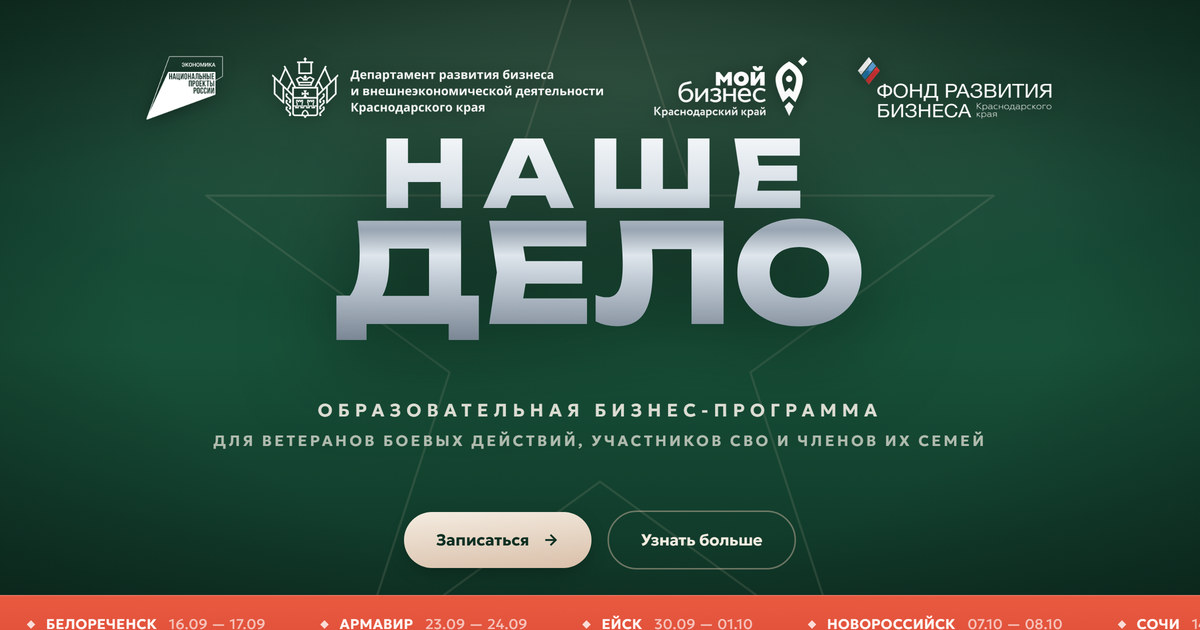
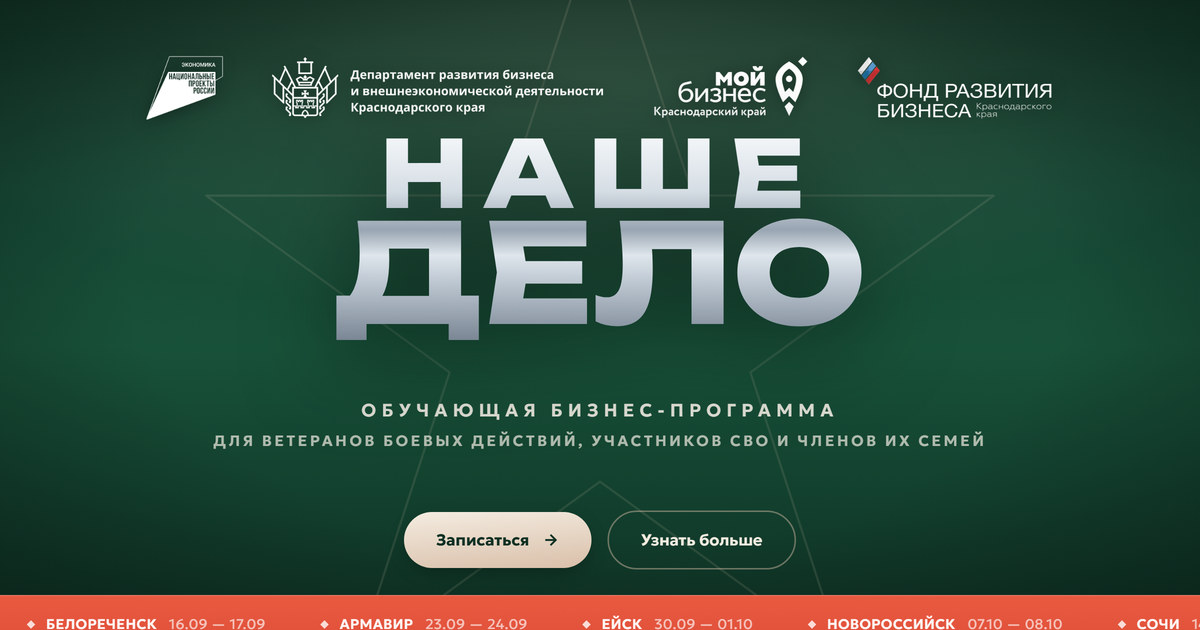
v33: техпакет по аудиту — спикеры, SEO, безопасность, автономность от src2
- Спикеры: 8 карточек с реальными ФИО из программы (content.js SPEAKERS), вместо «Спикер уточняется»
- shared33.jsx: ArrowIcon/Counter локально, src33 больше не импортирует из src2
- MotionConfig reducedMotion=user — prefers-reduced-motion теперь работает
- deploy.ps1: noindex,nofollow на все страницы gh-pages (черновики не конкурируют с боевым доменом)
- public-regru: .htaccess (https+без-www, X-Frame-Options/nosniff/Referrer-Policy, кеш, deflate), robots.txt, sitemap.xml
- 33/index.html: JSON-LD @user (WebSite/Organization/Course×7 городов/FAQPage), description с ключевыми словами
- scripts/prerender-regru.mjs: headless-Chrome пререндер прод-сборки (Яндекс видит текст без JS), npm run prerender:regru
- og.jpg перегенерирован под «Обучающая»

Changed region(s): [[0.2467, 0.6333, 0.74, 0.6635]]

diff --git a/src33/components/shared33.jsx b/src33/components/shared33.jsx
@@ -1,0 +1,59 @@
+import { useEffect, useRef, useState } from 'react'
+import { animate } from 'framer-motion'
+
+/* Локальные копии из src2/components/shared2.jsx (2026-07-22):
+   финальный вариант не должен зависеть от исторических папок черновиков */
+
+/* Счётчик от 0 при попадании во viewport (нативный IO — надёжнее useInView) */
+export function Counter({ value, suffix = '', duration = 1.4 }) {
+  const ref = useRef(null)
+  const [display, setDisplay] = useState(0)
+
+  useEffect(() => {
+    const el = ref.current
+    if (!el) return
+    let controls
+    const io = new IntersectionObserver(
+      ([entry]) => {
+        if (!entry.isIntersecting) return
+        io.disconnect()
+        controls = animate(0, value, {
+          duration,
+          ease: [0.19, 1, 0.22, 1],
+          onUpdate: (v) => setDisplay(Math.round(v)),
+        })
+      },
+      { rootMargin: '-40px' },
+    )
+    io.observe(el)
+    return () => {
+      io.disconnect()
+      controls?.stop()
+    }
+  }, [value, duration])
+
+  return (
+    <span ref={ref}>
+      {display}
+      {suffix}
+    </span>
+  )
+}
+
+export function ArrowIcon({ size = 18, strokeWidth = 2.5, className = '' }) {
+  return (
+    <svg
+      width={size}
+      height={size}
+      viewBox="0 0 24 24"
+      fill="none"
+      stroke="currentColor"
+      strokeWidth={strokeWidth}
+      className={className}
+      aria-hidden="true"
+    >
+      <line x1="5" y1="12" x2="19" y2="12" />
+      <polyline points="12 5 19 12 12 19" />
+    </svg>
+  )
+}

diff --git a/33/index.html b/33/index.html
@@ -3,7 +3,7 @@
   <head>
     <meta charset="UTF-8" />
     <meta name="viewport" content="width=device-width, initial-scale=1.0" />
-    <meta name="description" content="Наше дело. Обучающая бизнес-программа для ветеранов боевых действий, участников СВО и членов их семей." />
+    <meta name="description" content="«Наше дело» — бесплатная обучающая бизнес-программа для ветеранов боевых действий, участников СВО и членов их семей. Семь городов Краснодарского края, очные интенсивы, вебинары и консультации." />
     <title>Наше дело — обучающая бизнес-программа</title>
     <!-- Превью ссылки в мессенджерах и соцсетях.
          Домен в punycode — так его гарантированно забирают краулеры.
@@ -22,6 +22,56 @@
     <meta property="og:image:alt" content="Наше дело — обучающая бизнес-программа" />
     <meta name="twitter:card" content="summary_large_image" />
     <meta name="twitter:image" content="https://xn--23-6kcqeb6blo9g.xn--p1ai/og.jpg" />
+    <!-- Структурированные данные: программа + FAQ (расширенный сниппет) -->
+    <script type="application/ld+json">
+    {
+      "@context": "https://schema.org",
+      "@graph": [
+        {
+          "@type": "WebSite",
+          "@id": "https://xn--23-6kcqeb6blo9g.xn--p1ai/#website",
+          "url": "https://xn--23-6kcqeb6blo9g.xn--p1ai/",
+          "name": "Наше дело",
+          "inLanguage": "ru-RU"
+        },
+        {
+          "@type": "Organization",
+          "@id": "https://moibiz93.ru/#org",
+          "name": "Фонд развития бизнеса Краснодарского края",
+          "url": "https://moibiz93.ru/"
+        },
+        {
+          "@type": "Course",
+          "name": "Наше дело — обучающая бизнес-программа",
+          "description": "Бесплатная обучающая бизнес-программа для ветеранов боевых действий, участников СВО и членов их семей: очные интенсивы в семи городах Краснодарского края, вебинары и консультации.",
+          "provider": { "@id": "https://moibiz93.ru/#org" },
+          "isAccessibleForFree": true,
+          "inLanguage": "ru-RU",
+          "offers": { "@type": "Offer", "price": "0", "priceCurrency": "RUB" },
+          "hasCourseInstance": [
+            { "@type": "CourseInstance", "courseMode": "onsite", "startDate": "2026-09-16", "endDate": "2026-09-17", "location": { "@type": "Place", "address": { "@type": "PostalAddress", "addressLocality": "Белореченск", "addressRegion": "Краснодарский край", "addressCountry": "RU" } } },
+            { "@type": "CourseInstance", "courseMode": "onsite", "startDate": "2026-09-23", "endDate": "2026-09-24", "location": { "@type": "Place", "address": { "@type": "PostalAddress", "addressLocality": "Армавир", "addressRegion": "Краснодарский край", "addressCountry": "RU" } } },
+            { "@type": "CourseInstance", "courseMode": "onsite", "startDate": "2026-09-30", "endDate": "2026-10-01", "location": { "@type": "Place", "address": { "@type": "PostalAddress", "addressLocality": "Ейск", "addressRegion": "Краснодарский край", "addressCountry": "RU" } } },
+            { "@type": "CourseInstance", "courseMode": "onsite", "startDate": "2026-10-07", "endDate": "2026-10-08", "location": { "@type": "Place", "address": { "@type": "PostalAddress", "addressLocality": "Новороссийск", "addressRegion": "Краснодарский край", "addressCountry": "RU" } } },
+            { "@type": "CourseInstance", "courseMode": "onsite", "startDate": "2026-10-14", "endDate": "2026-10-15", "location": { "@type": "Place", "address": { "@type": "PostalAddress", "addressLocality": "Сочи", "addressRegion": "Краснодарский край", "addressCountry": "RU" } } },
+            { "@type": "CourseInstance", "courseMode": "onsite", "startDate": "2026-10-27", "endDate": "2026-10-28", "location": { "@type": "Place", "address": { "@type": "PostalAddress", "addressLocality": "Тимашевск", "addressRegion": "Краснодарский край", "addressCountry": "RU" } } },
+            { "@type": "CourseInstance", "courseMode": "onsite", "startDate": "2026-10-29", "endDate": "2026-10-30", "location": { "@type": "Place", "address": { "@type": "PostalAddress", "addressLocality": "Краснодар", "addressRegion": "Краснодарский край", "addressCountry": "RU" } } }
+          ]
+        },
+        {
+          "@type": "FAQPage",
+          "mainEntity": [
+            { "@type": "Question", "name": "Кто может участвовать?", "acceptedAnswer": { "@type": "Answer", "text": "Ветераны боевых действий, участники СВО и члены их семей (супруг/супруга, дети старше 18 лет), зарегистрированные на территории Краснодарского края, являющиеся субъектами малого и среднего предпринимательства, или граждане, зарегистрированные на территории Краснодарского края и желающие вести бизнес." } },
+            { "@type": "Question", "name": "Могу ли я участвовать, если я ещё не зарегистрирован в качестве предпринимателя?", "acceptedAnswer": { "@type": "Answer", "text": "Да, участвовать могут ветераны боевых действий, участники СВО и члены их семей, зарегистрированные на территории Краснодарского края и желающие начать своё дело." } },
+            { "@type": "Question", "name": "Нужна ли уже готовая бизнес-идея?", "acceptedAnswer": { "@type": "Answer", "text": "Программа открыта для всех: и для тех, кто только задумывается о собственном деле, и для действующих предпринимателей, которые хотят систематизировать знания и найти новые точки роста." } },
+            { "@type": "Question", "name": "Стоимость участия", "acceptedAnswer": { "@type": "Answer", "text": "Участие в программе бесплатное!" } },
+            { "@type": "Question", "name": "Где проходят занятия?", "acceptedAnswer": { "@type": "Answer", "text": "В семи городах Краснодарского края: Белореченск, Армавир, Ейск, Новороссийск, Сочи, Тимашевск, Краснодар. Очные интенсивы проходят в каждом из этих городов, участник выбирает удобную площадку. Вебинары и консультации — дистанционно." } },
+            { "@type": "Question", "name": "Что нужно для старта?", "acceptedAnswer": { "@type": "Answer", "text": "Самое главное — желание и время на обучение. Все материалы и консультации предоставляются организаторами." } }
+          ]
+        }
+      ]
+    }
+    </script>
     <link rel="preconnect" href="https://fonts.googleapis.com" />
     <link rel="preconnect" href="https://fonts.gstatic.com" crossorigin />
     <link

diff --git a/src33/components/Speakers5.jsx b/src33/components/Speakers5.jsx
@@ -1,10 +1,10 @@
 import { motion } from 'framer-motion'
-import { SPEAKER_ROLES } from '../../src2/content.js'
+import { SPEAKERS } from '../content.js'
 
 const EASE = [0.19, 1, 0.22, 1]
 
-/* Спикеры сеткой (конструкция «Мой Бизнес Forum»: spk-grid),
-   карточки — наши, из карусели v15 */
+/* Спикеры сеткой (конструкция «Мой Бизнес Forum»: spk-grid).
+   С 2026-07-22 — реальные ФИО из программы (content.js), не заглушки. */
 export default function Speakers5() {
   return (
     <section id="speakers" className="relative py-24 md:py-32">
@@ -23,9 +23,9 @@ export default function Speakers5() {
         </motion.h2>
 
         <div className="grid grid-cols-2 md:grid-cols-3 gap-4 md:gap-5">
-          {SPEAKER_ROLES.map((role, i) => (
+          {SPEAKERS.map(({ name, topic, tbd }, i) => (
             <motion.div
-              key={role}
+              key={name}
               className="speaker-card3"
               initial={{ opacity: 0, y: 24 }}
               whileInView={{ opacity: 1, y: 0 }}
@@ -41,8 +41,8 @@ export default function Speakers5() {
                   <path d="M18 100 Q 18 62 50 62 Q 82 62 82 100 Z" fill="#fff" />
                 </svg>
                 <div className="relative">
-                  <div className="text-[#d9bfa8] text-[11px] md:text-xs font-semibold tracking-wide uppercase">{role}</div>
-                  <div className="text-white font-bold text-base md:text-lg mt-1">Спикер уточняется</div>
+                  <div className="text-[#d9bfa8] text-[11px] md:text-xs font-semibold tracking-wide uppercase">{topic}</div>
+                  <div className={`font-bold text-base md:text-lg mt-1 ${tbd ? 'text-white/60' : 'text-white'}`}>{name}</div>
                 </div>
               </div>
             </motion.div>

diff --git a/src33/content.js b/src33/content.js
@@ -144,6 +144,19 @@ export const WEBINARS = [
   },
 ]
 
+/* Спикеры программы — собраны из лекций/вебинаров выше (2026-07-22).
+   Темы — из названий занятий, ничего не выдумано. */
+export const SPEAKERS = [
+  { name: 'Елена Юрьевна Нагорная', topic: 'Психология предпринимательства · бизнес-идеи' },
+  { name: 'Любовь Викторовна Шаповалова', topic: 'Маркетинг и продажи' },
+  { name: 'Василий Владимирович Жабин', topic: 'Финансы · пассивный доход' },
+  { name: 'Михаил Васильевич Гаврилов', topic: 'Бухгалтерия, налоги, право' },
+  { name: 'Татьяна Николаевна Папета', topic: 'Управление эмоциями' },
+  { name: 'Евгения Андреевна Гертель', topic: 'Франчайзинг' },
+  { name: 'Лариса Дмитриевна Амельченко', topic: 'Кадры и команда' },
+  { name: 'Спикер на уточнении', topic: 'Господдержка МСП', tbd: true },
+]
+
 export const FAQ = [
   {
     q: 'Кто может участвовать?',

diff --git a/src33/App.jsx b/src33/App.jsx
@@ -1,3 +1,4 @@
+import { MotionConfig } from 'framer-motion'
 import Bg22 from './components/Bg22.jsx'
 import Quotes31 from './components/Quotes31.jsx'
 import Intro5 from './components/Intro5.jsx'
@@ -15,6 +16,9 @@ import StickyCta21 from './components/StickyCta21.jsx'
 
 export default function App() {
   return (
+    /* reducedMotion="user": уважаем prefers-reduced-motion системно —
+       framer гасит transform/opacity-анимации у всех motion-компонентов */
+    <MotionConfig reducedMotion="user">
     <div className="grain3 relative">
       <Bg22 />
       {/* Таблички-цитаты живут на фоне (отрицательный z-index), скролл не удлиняют */}
@@ -34,5 +38,6 @@ export default function App() {
       <Footer5 />
       <StickyCta21 />
     </div>
+    </MotionConfig>
   )
 }

diff --git a/src33/components/Cta5.jsx b/src33/components/Cta5.jsx
@@ -1,5 +1,5 @@
 import { motion } from 'framer-motion'
-import { ArrowIcon } from '../../src2/components/shared2.jsx'
+import { ArrowIcon } from './shared33.jsx'
 
 const EASE = [0.19, 1, 0.22, 1]
 

diff --git a/src33/components/Hero22.jsx b/src33/components/Hero22.jsx
@@ -1,5 +1,5 @@
 import { motion } from 'framer-motion'
-import { ArrowIcon } from '../../src2/components/shared2.jsx'
+import { ArrowIcon } from './shared33.jsx'
 import { SCHEDULE } from '../content.js'
 import Logo15 from './Logo15.jsx'
 import LogoFx25 from './LogoFx25.jsx'

diff --git a/src33/components/Mission5.jsx b/src33/components/Mission5.jsx
@@ -1,5 +1,5 @@
 import { motion, useReducedMotion } from 'framer-motion'
-import { Counter } from '../../src2/components/shared2.jsx'
+import { Counter } from './shared33.jsx'
 
 const EASE = [0.19, 1, 0.22, 1]
 

diff --git a/src33/components/Press15.jsx b/src33/components/Press15.jsx
@@ -1,5 +1,5 @@
 import { motion } from 'framer-motion'
-import { ArrowIcon } from '../../src2/components/shared2.jsx'
+import { ArrowIcon } from './shared33.jsx'
 
 const EASE = [0.19, 1, 0.22, 1]
 